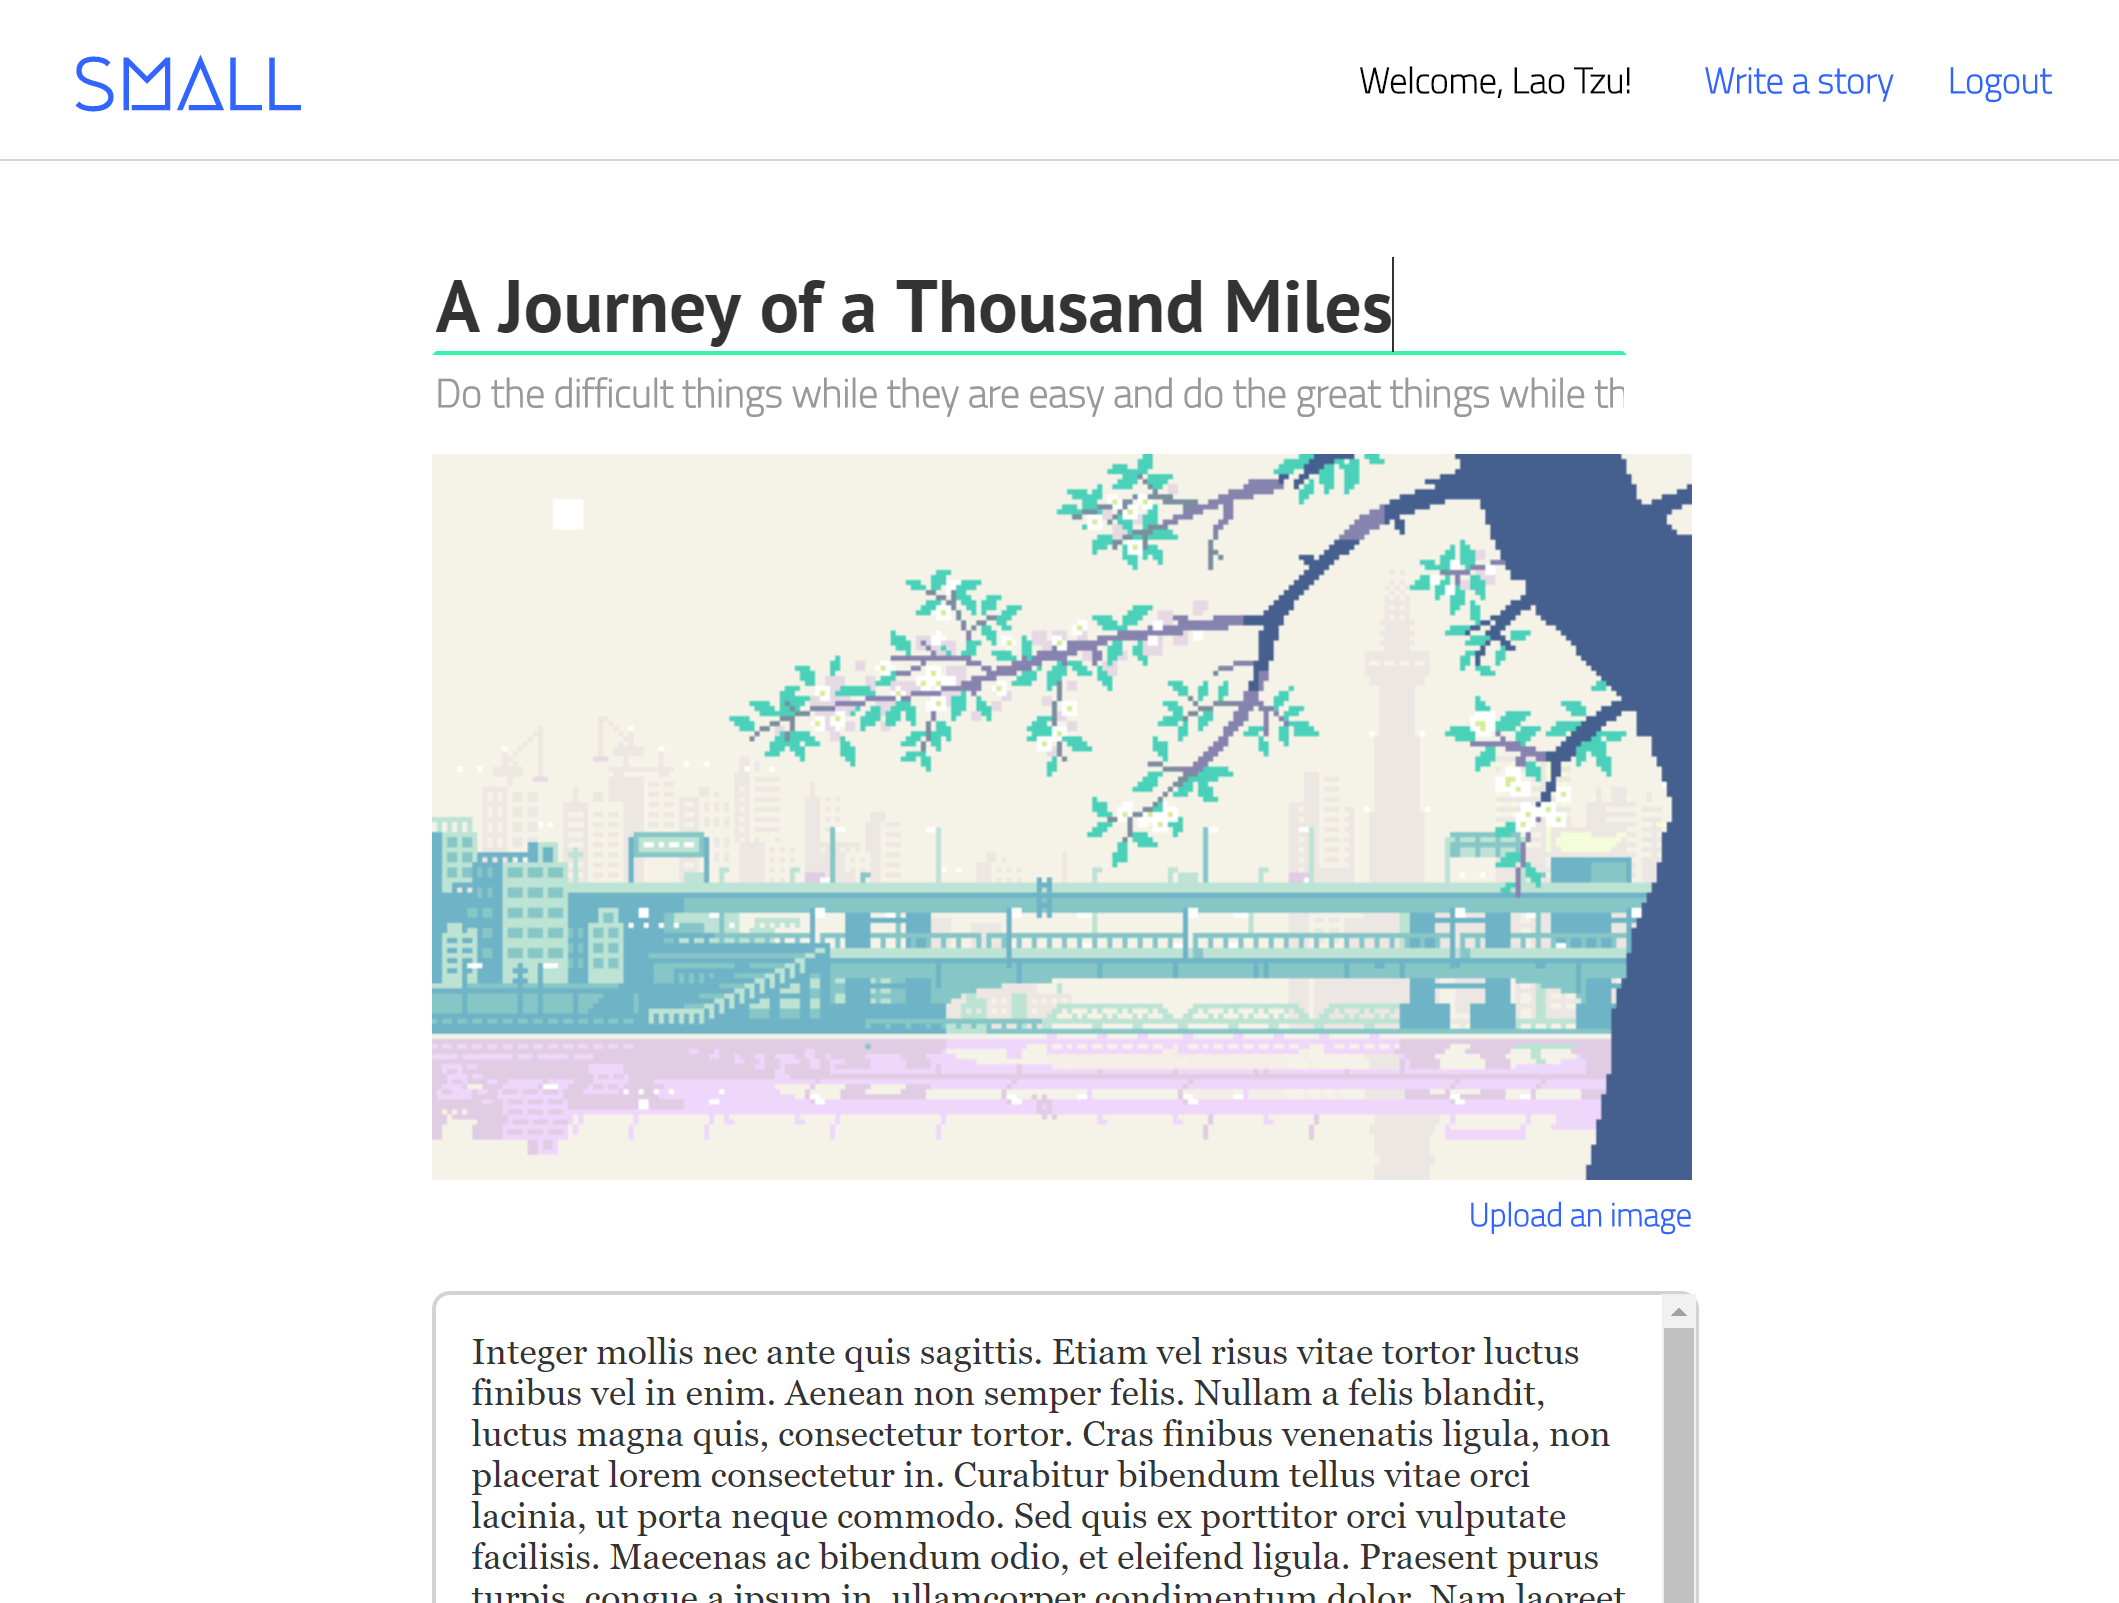
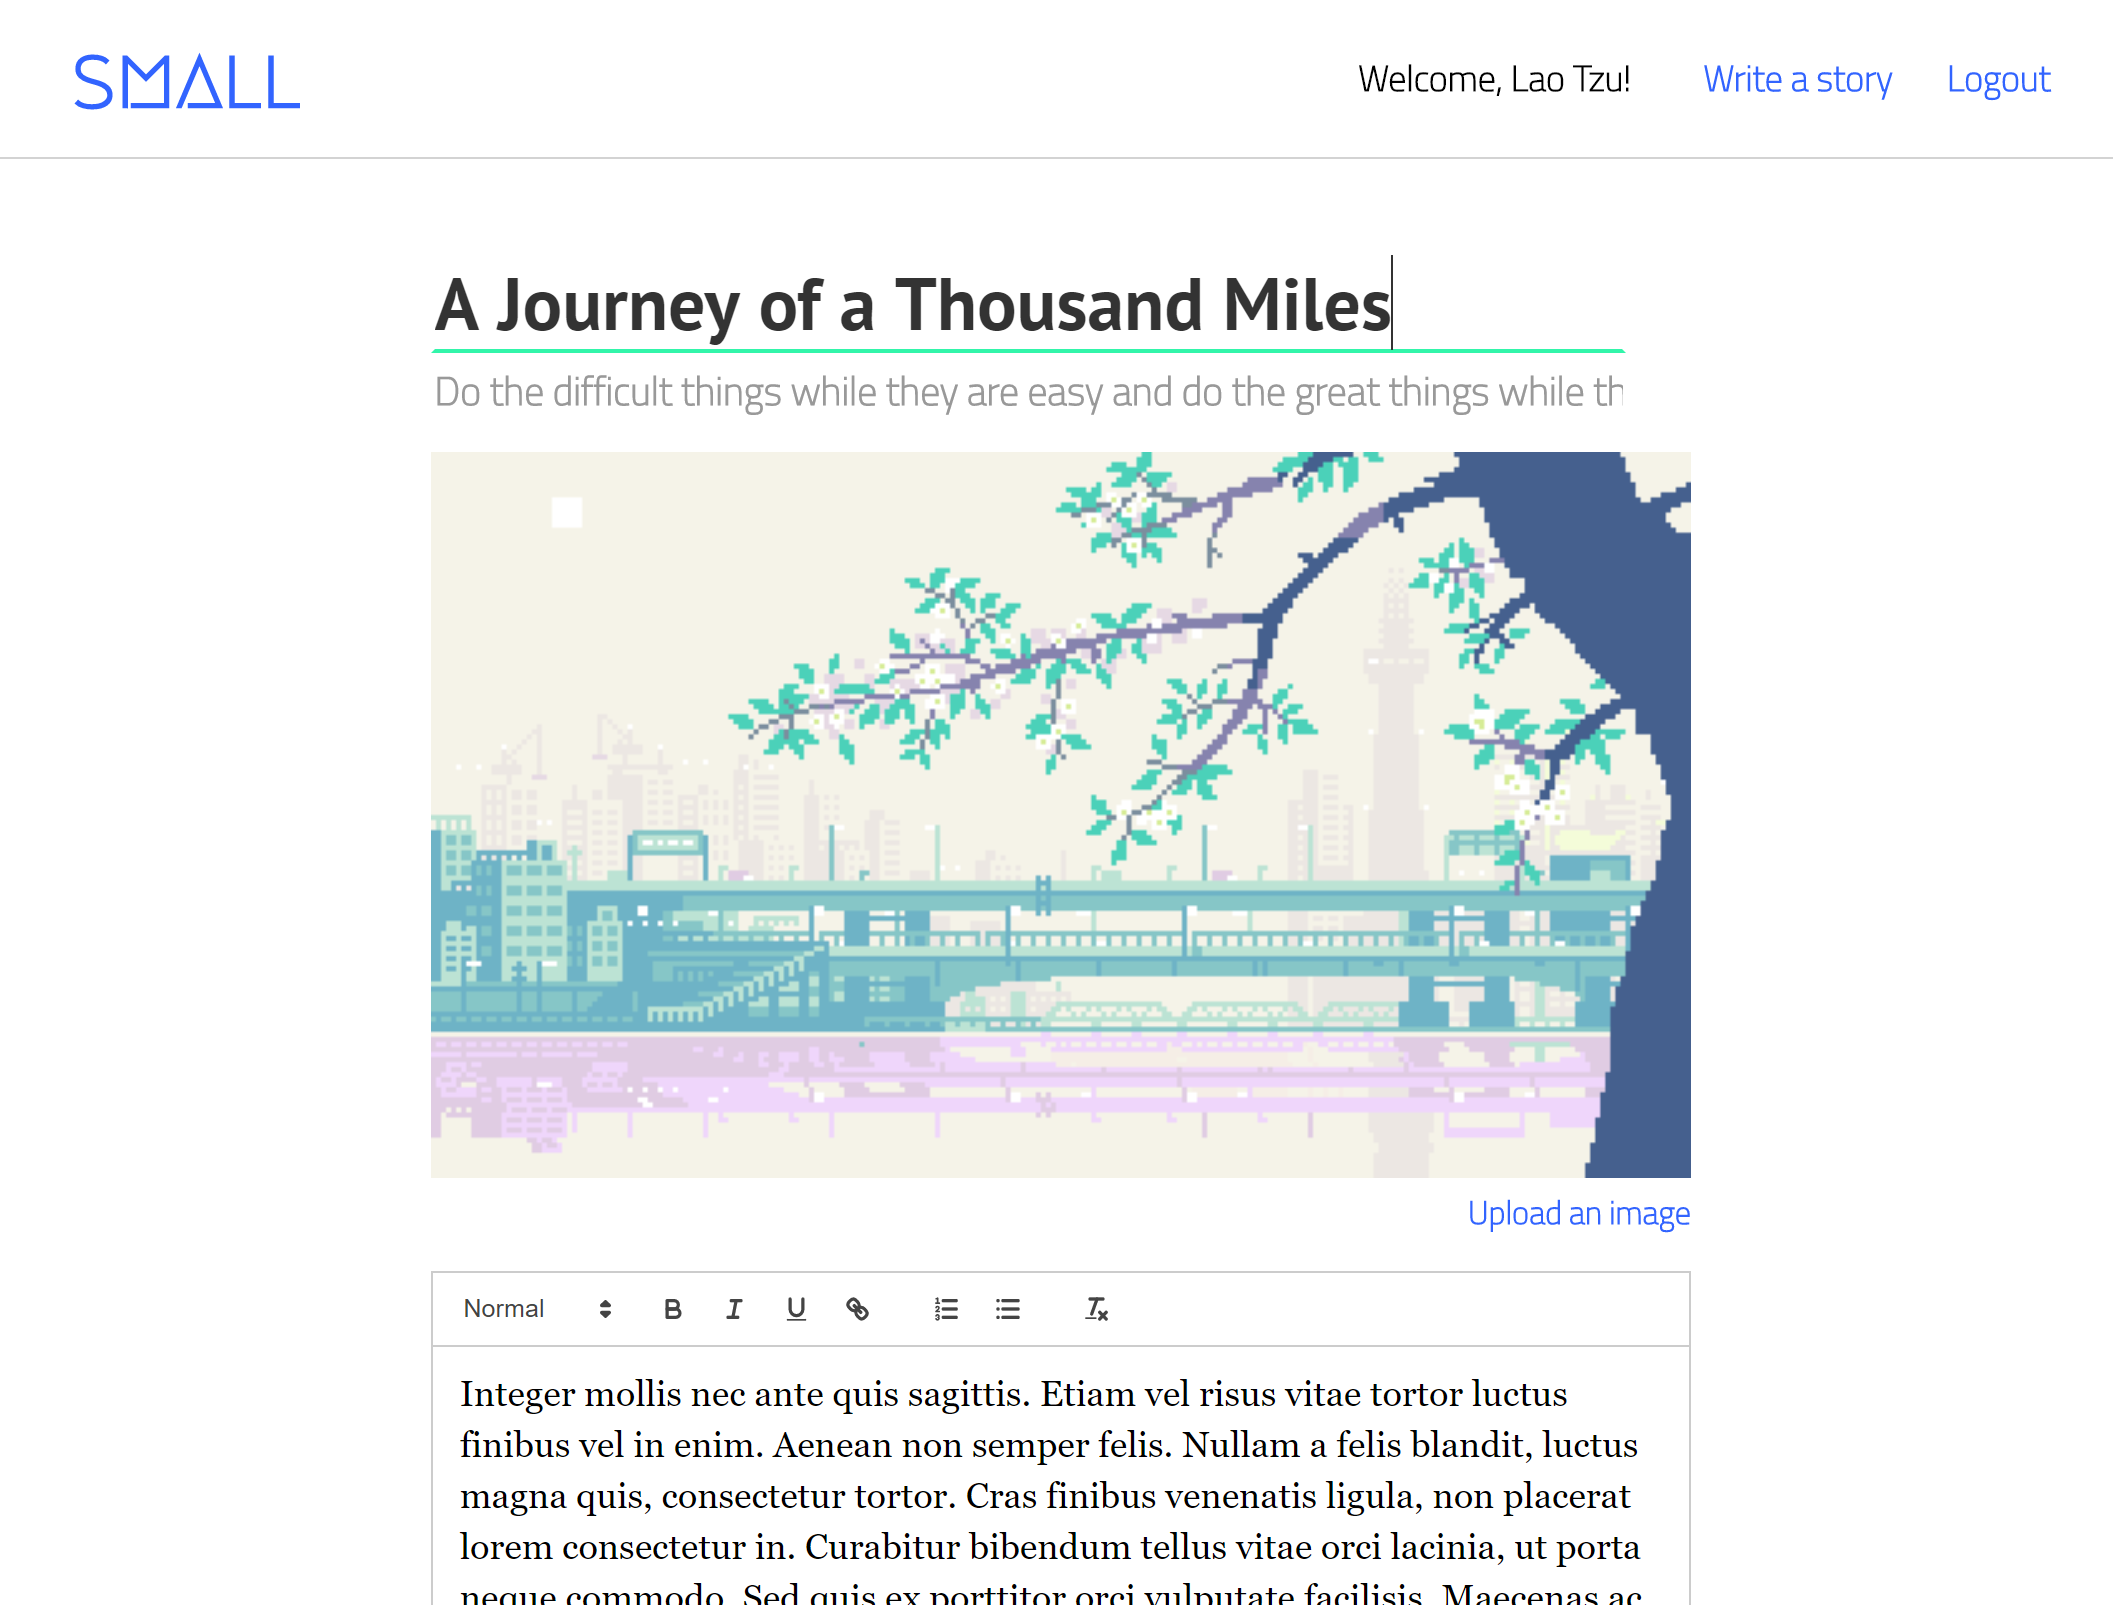
Update README to include Quill integration

diff --git a/README.md b/README.md
@@ -10,7 +10,7 @@ The project was designed and built within a two-week timeframe, though I plan to
 
 ## Features
   * Secure frontend to backend user authentication using BCrypt.
-  * Users can create, edit, view, and delete stories.
+  * Users can create and edit stories using a Quill-enabled rich text editor.
   * Feed dynamically adapts to display all published stories in an appealing way.
   * Users can comment on posts and update their responses directly on the page.
   * Users can like posts and follow other users.
